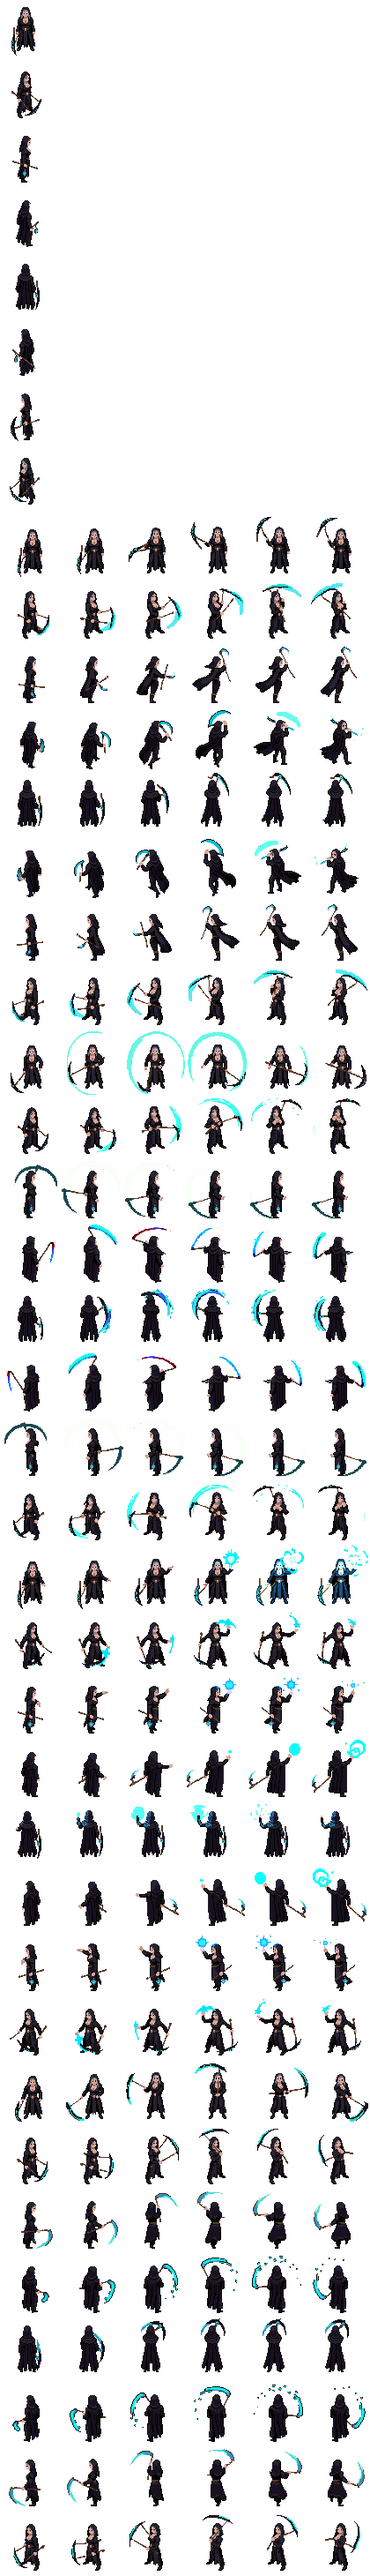
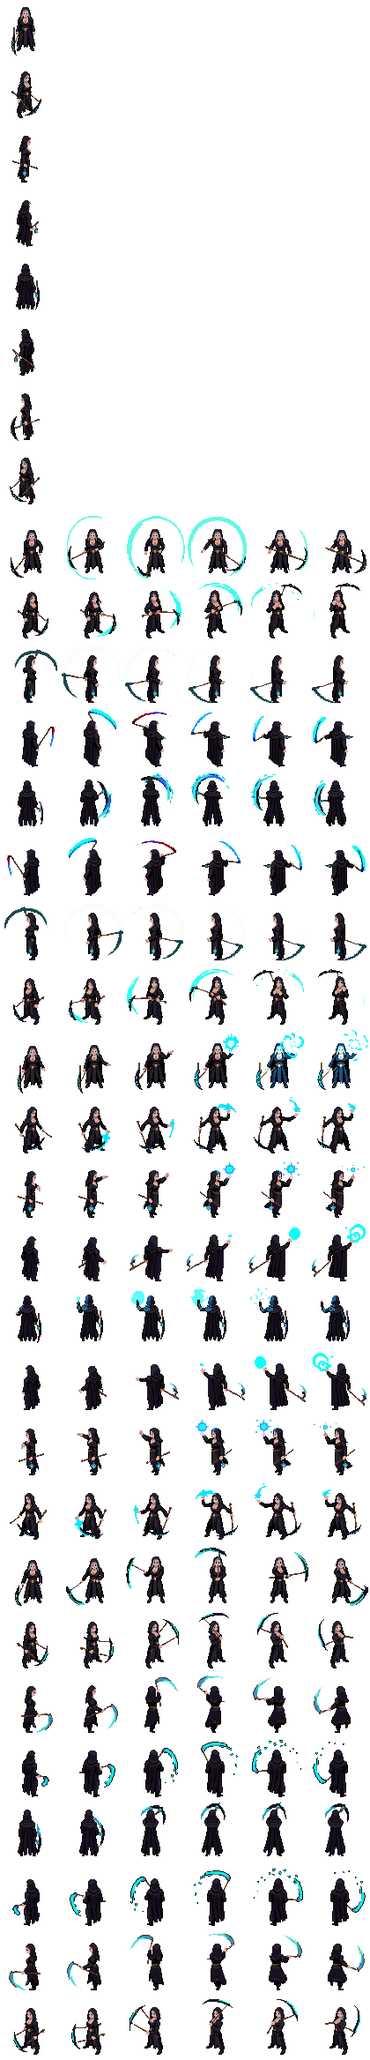
Valkyrie and Berserker sprites packed; Reaper walk re-prompted (the first swung the scythe)

diff --git a/tools/pack.py b/tools/pack.py
@@ -74,8 +74,28 @@ CHARS = {
     "vampire": [("idle", None, 1), ("walk", "walking gracefully forward, cape flowing behind her", 10),
                 ("cast", "casting a blood spell, thrusting one clawed hand forward", 16),
                 ("attack", "slashing forward with long clawed fingers", 18)],
+    # ---- the Valkyrie (tools/valkyrie_art.py) ----
+    "valkyrie": [("idle", None, 1), ("walk", "walking forward with purpose, spear held upright, fur mantle swaying", 9),
+                 ("attack", "thrusting the long spear forward in a fast lunge", 16),
+                 ("sweep", "sweeping the long spear in a wide horizontal arc", 14),
+                 ("whirl", "spinning around in a full circle whirling the spear", 14),
+                 ("throw", "throwing the spear forward like a javelin", 14),
+                 ("cast", "raising one hand to summon swirling frost magic", 12)],
+    "frost_raven": [("idle", None, 1), ("walk", "raven flying forward flapping its wings", 12)],
+    "valkyrie_horse": [("idle", None, 1), ("walk", "warhorse galloping forward at full charge, rider leveling the spear", 14)],
+    "einherjar": [("idle", None, 1), ("walk", "ghost warrior walking forward with shield raised", 9),
+                  ("attack", "ghost warrior swinging the axe", 12)],
+    # ---- the Berserker (tools/berserker_art.py) ----
+    "berserker": [("idle", None, 1), ("walk", "striding forward with the giant axe over her shoulder", 9),
+                  ("attack", "swinging the giant axe in a wide horizontal cleave", 14),
+                  ("chop", "raising the giant axe high and chopping straight down", 12),
+                  ("whirl", "spinning around in a full circle with the axe held out", 14),
+                  ("throw", "hurling the giant axe forward with both hands", 14),
+                  ("cast", "throwing her head back and roaring a war cry, axe raised", 10)],
+    "dire_wolf": [("idle", None, 1), ("walk", "dire wolf running fast, loping gallop", 12),
+                  ("attack", "dire wolf lunging forward and biting", 14)],
     # ---- the Reaper (tools/reaper_art.py) ----
-    "reaper": [("idle", None, 1), ("walk", "gliding forward, cloak trailing, scythe held upright", 8),
+    "reaper": [("idle", None, 1), ("walk", "walking calmly forward with steady steps, holding the scythe still and upright at her side, no swinging", 8),
                ("attack", "sweeping the great scythe in a wide horizontal arc", 14),
                ("cast", "raising one hand to cast spectral blue rune magic, scythe in the other hand", 12),
                ("spin", "spinning in a full circle with the scythe held out", 14)],

diff --git a/tools/reaper_art.py b/tools/reaper_art.py
@@ -33,7 +33,8 @@ SPRITE = (
 )
 
 ANIMS = [
-    ("reaper", "gliding forward, cloak trailing, scythe held upright", 6),
+    # (The first walk, "gliding forward ... scythe held upright", swung the scythe overhead in every direction.)
+    ("reaper", "walking calmly forward with steady steps, holding the scythe still and upright at her side, no swinging", 6),
     ("reaper", "sweeping the great scythe in a wide horizontal arc", 6),
     ("reaper", "raising one hand to cast spectral blue rune magic, scythe in the other hand", 6),
     ("reaper", "spinning in a full circle with the scythe held out", 6),
